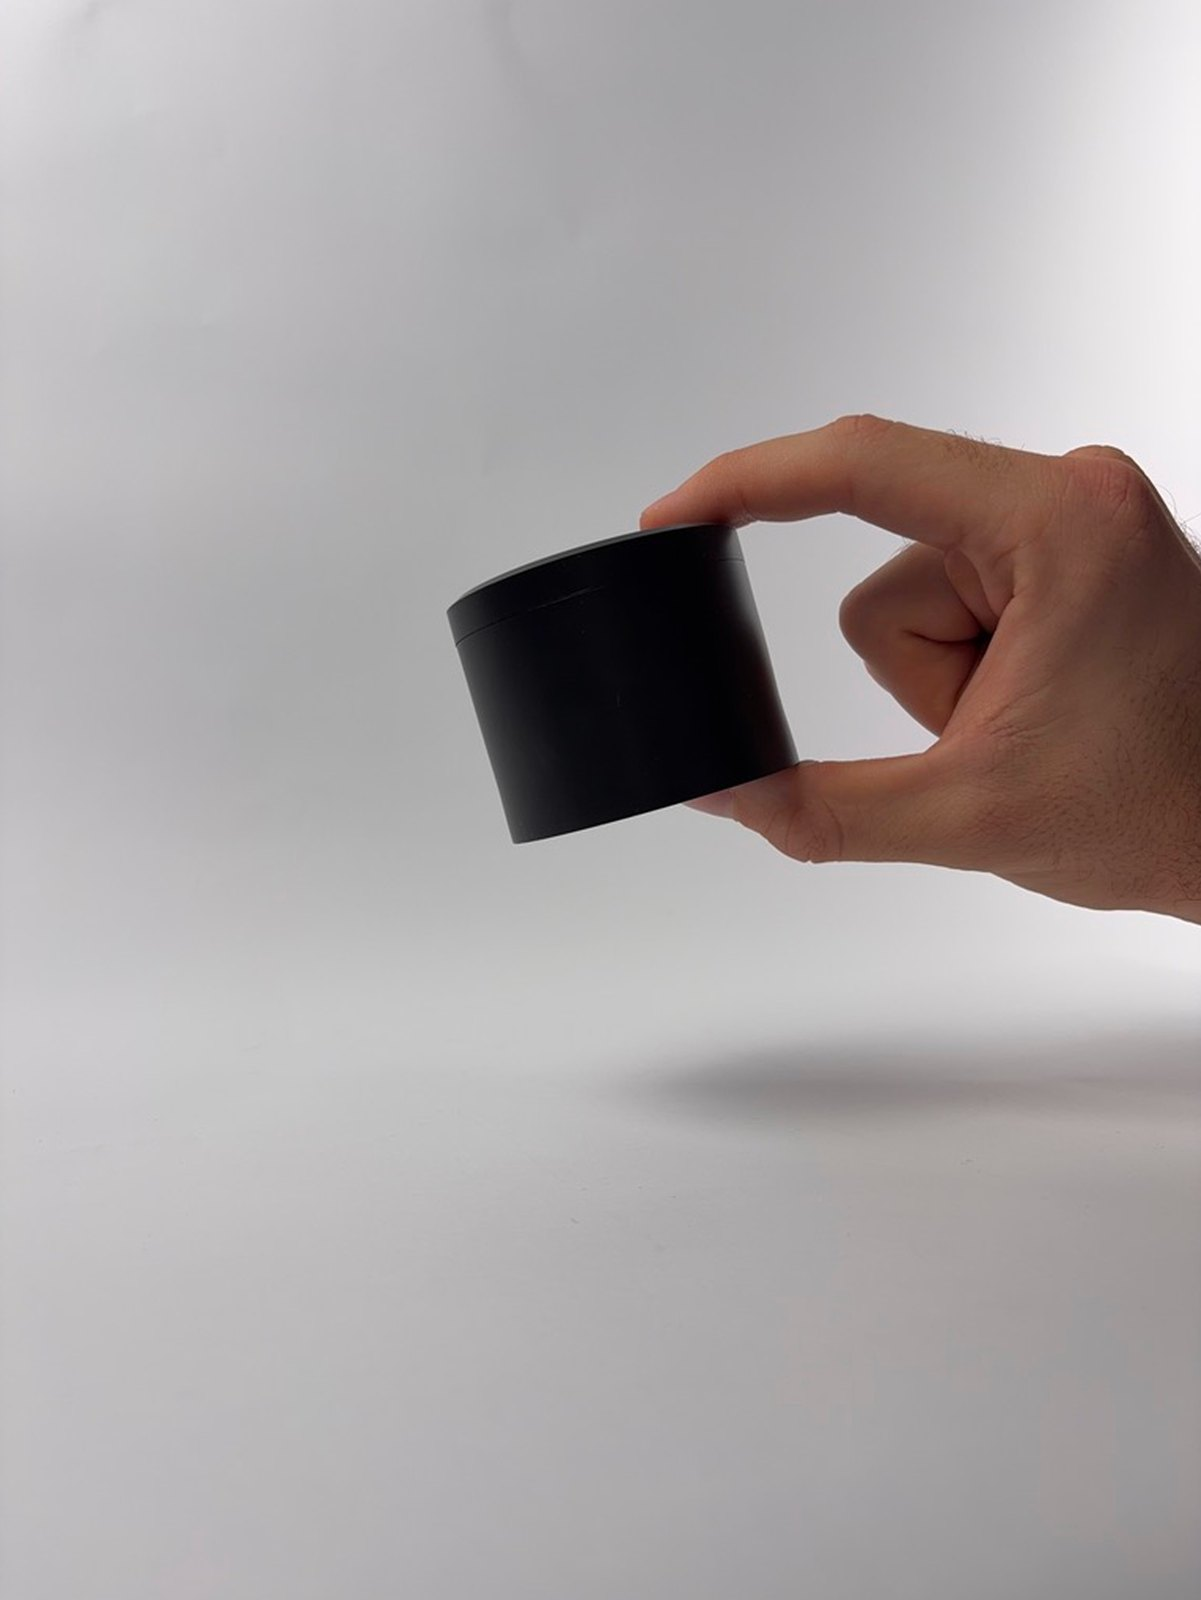
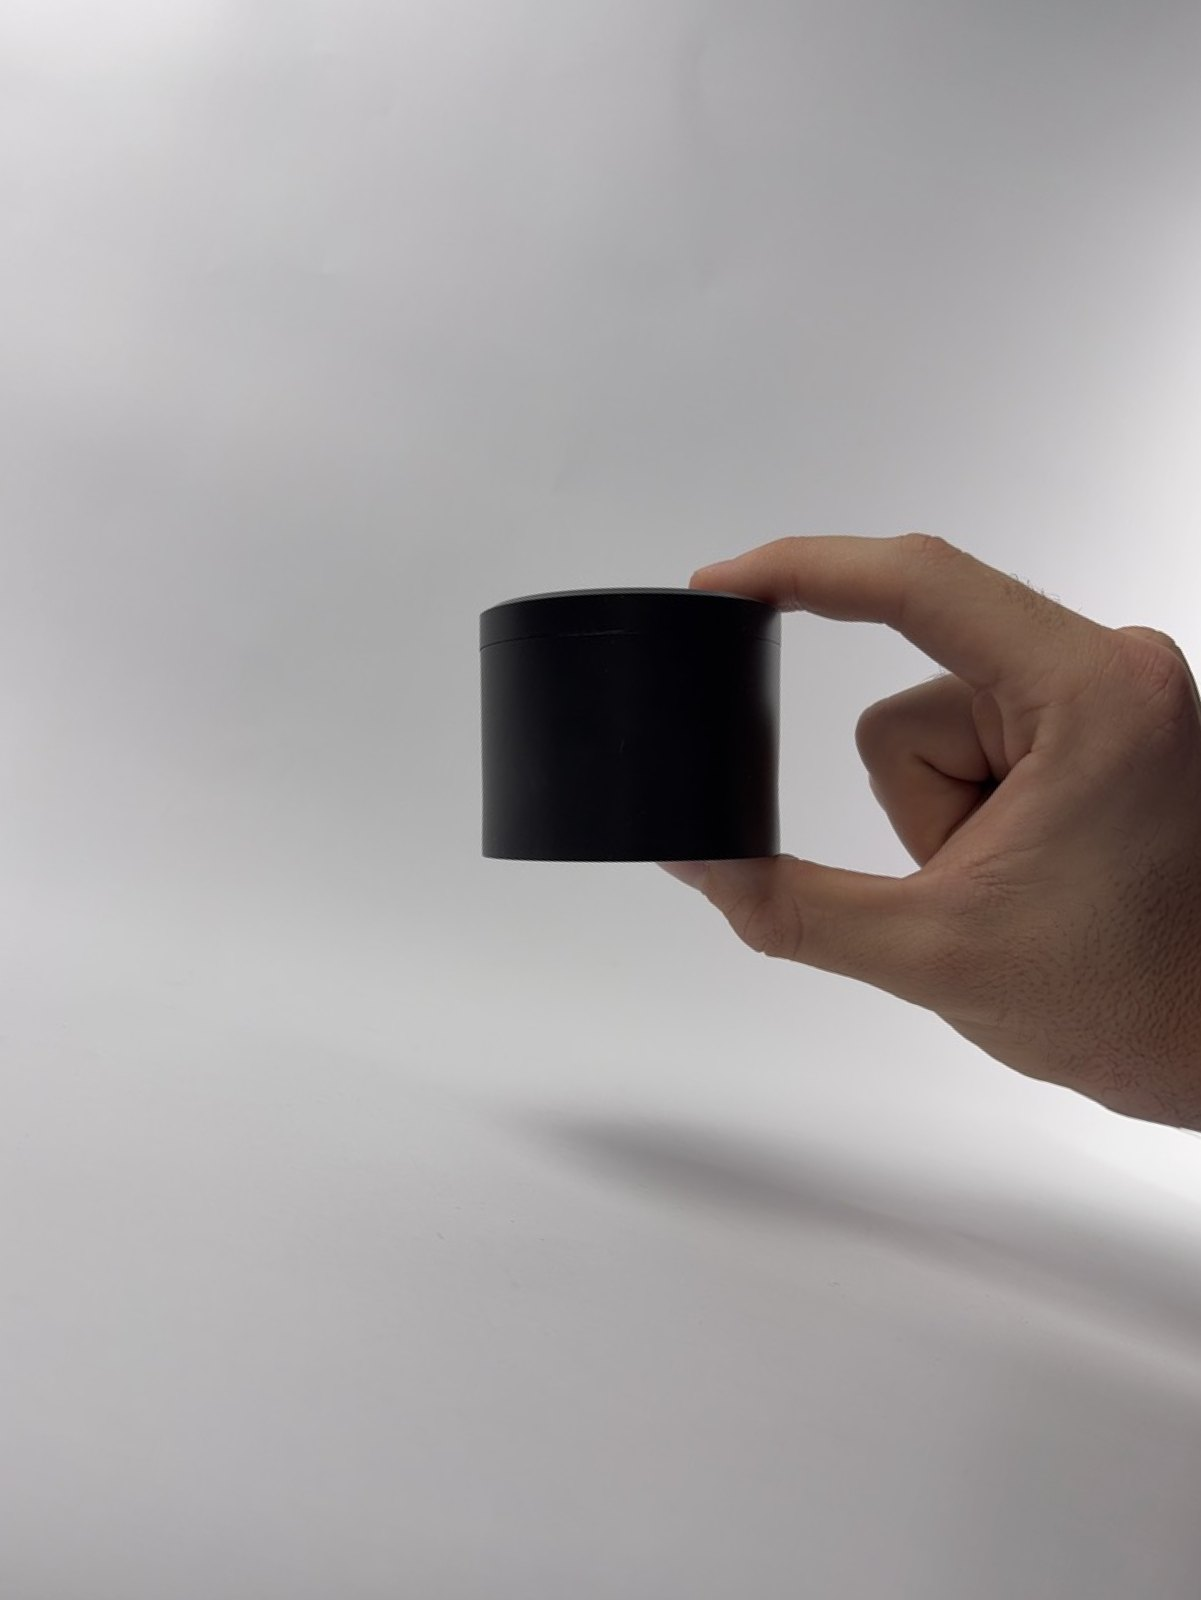
Large Pill Pod gallery: new fourth photo, fine-tuned positions of photos two, three and four

Changed region(s): [[0.3697, 0.0, 1.0, 0.7812], [0.0, 0.9688, 0.0616, 1.0], [0.4005, 0.0, 0.4313, 0.0312]]

diff --git a/hybrid-pod.html b/hybrid-pod.html
@@ -342,7 +342,7 @@
           <button type="button" class="pg-thumb" data-src="images/lifestyle_section/Large Pill Pod Prod Image 3 Wide.jpg" data-imgstyle="object-position: 50% 67.3%" aria-label="Photo 3">
             <img src="images/lifestyle_section/Large Pill Pod Prod Image 3 Wide.jpg" alt="" />
           </button>
-          <button type="button" class="pg-thumb" data-src="images/lifestyle_section/Large Pill Pod Prod Image 4.jpg" data-imgstyle="flex: none; width: 105%; max-width: none; position: relative; left: -6px; object-position: 50% 45.2%" aria-label="Photo 4">
+          <button type="button" class="pg-thumb" data-src="images/lifestyle_section/Large Pill Pod Prod Image 4.jpg" data-imgstyle="flex: none; width: calc(105% + 10px); max-width: none; position: relative; left: -21px; object-position: 50% 39.1%" aria-label="Photo 4">
             <img src="images/lifestyle_section/Large Pill Pod Prod Image 4.jpg" alt="" />
           </button>
         </div>
